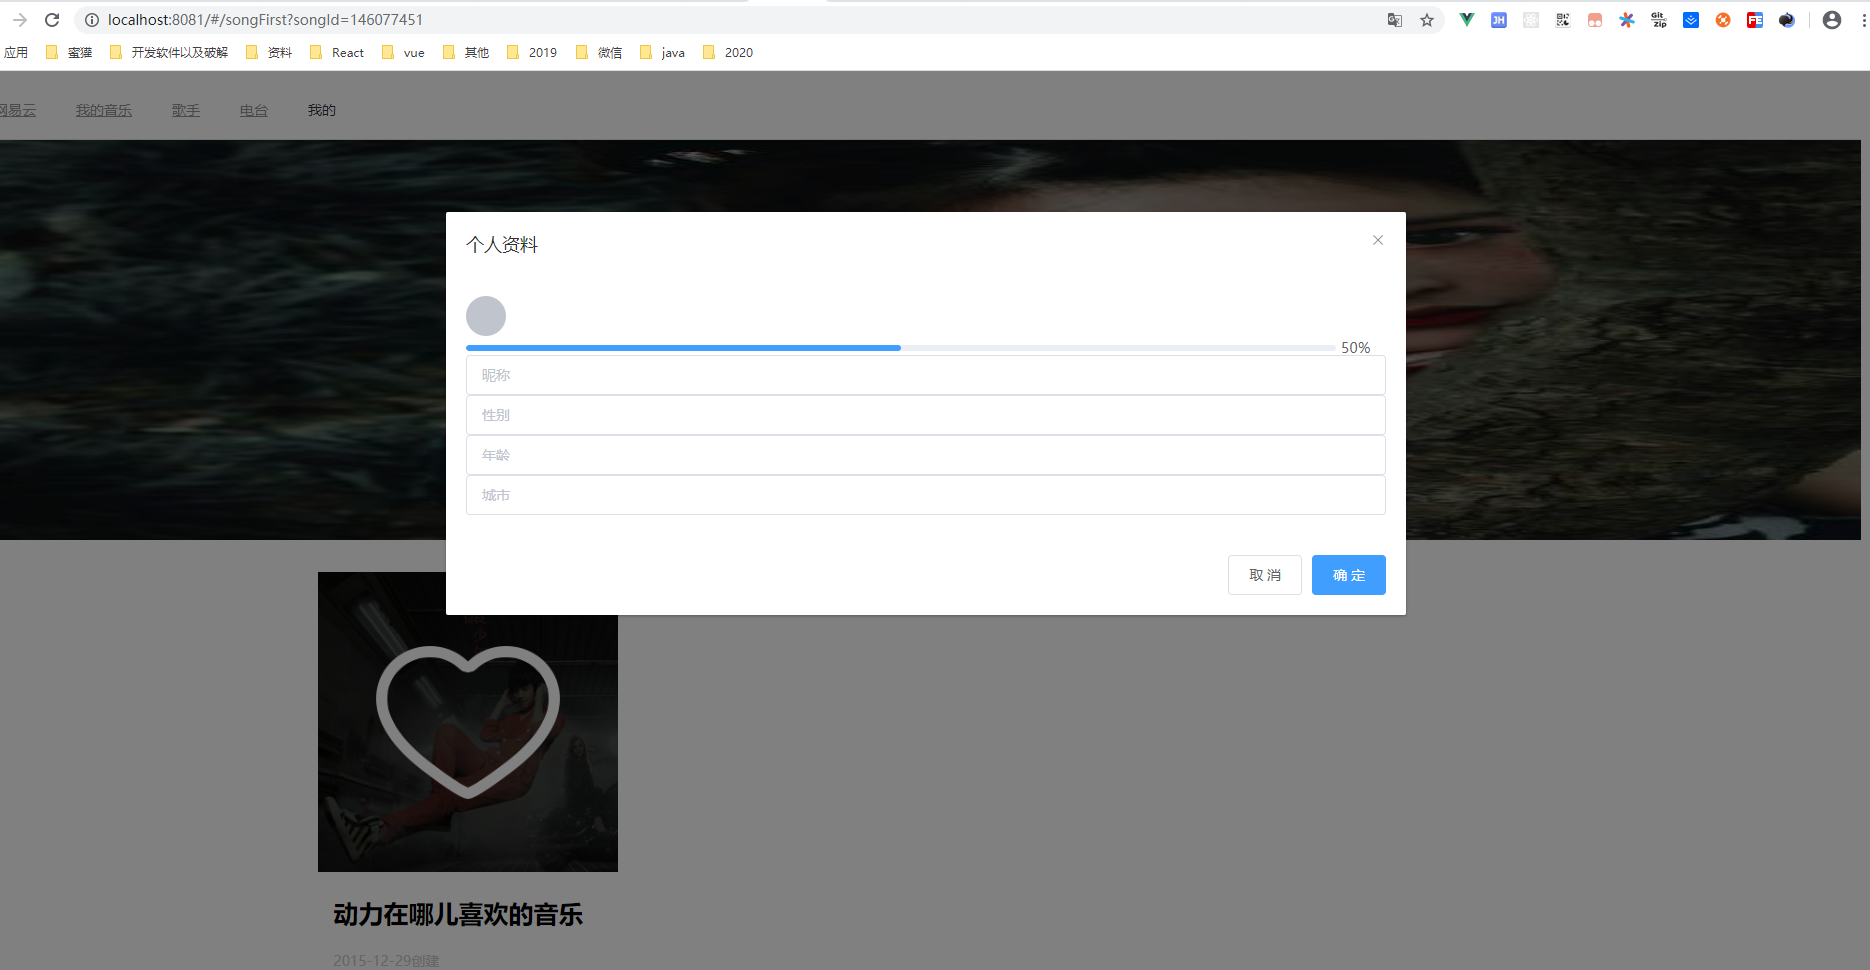
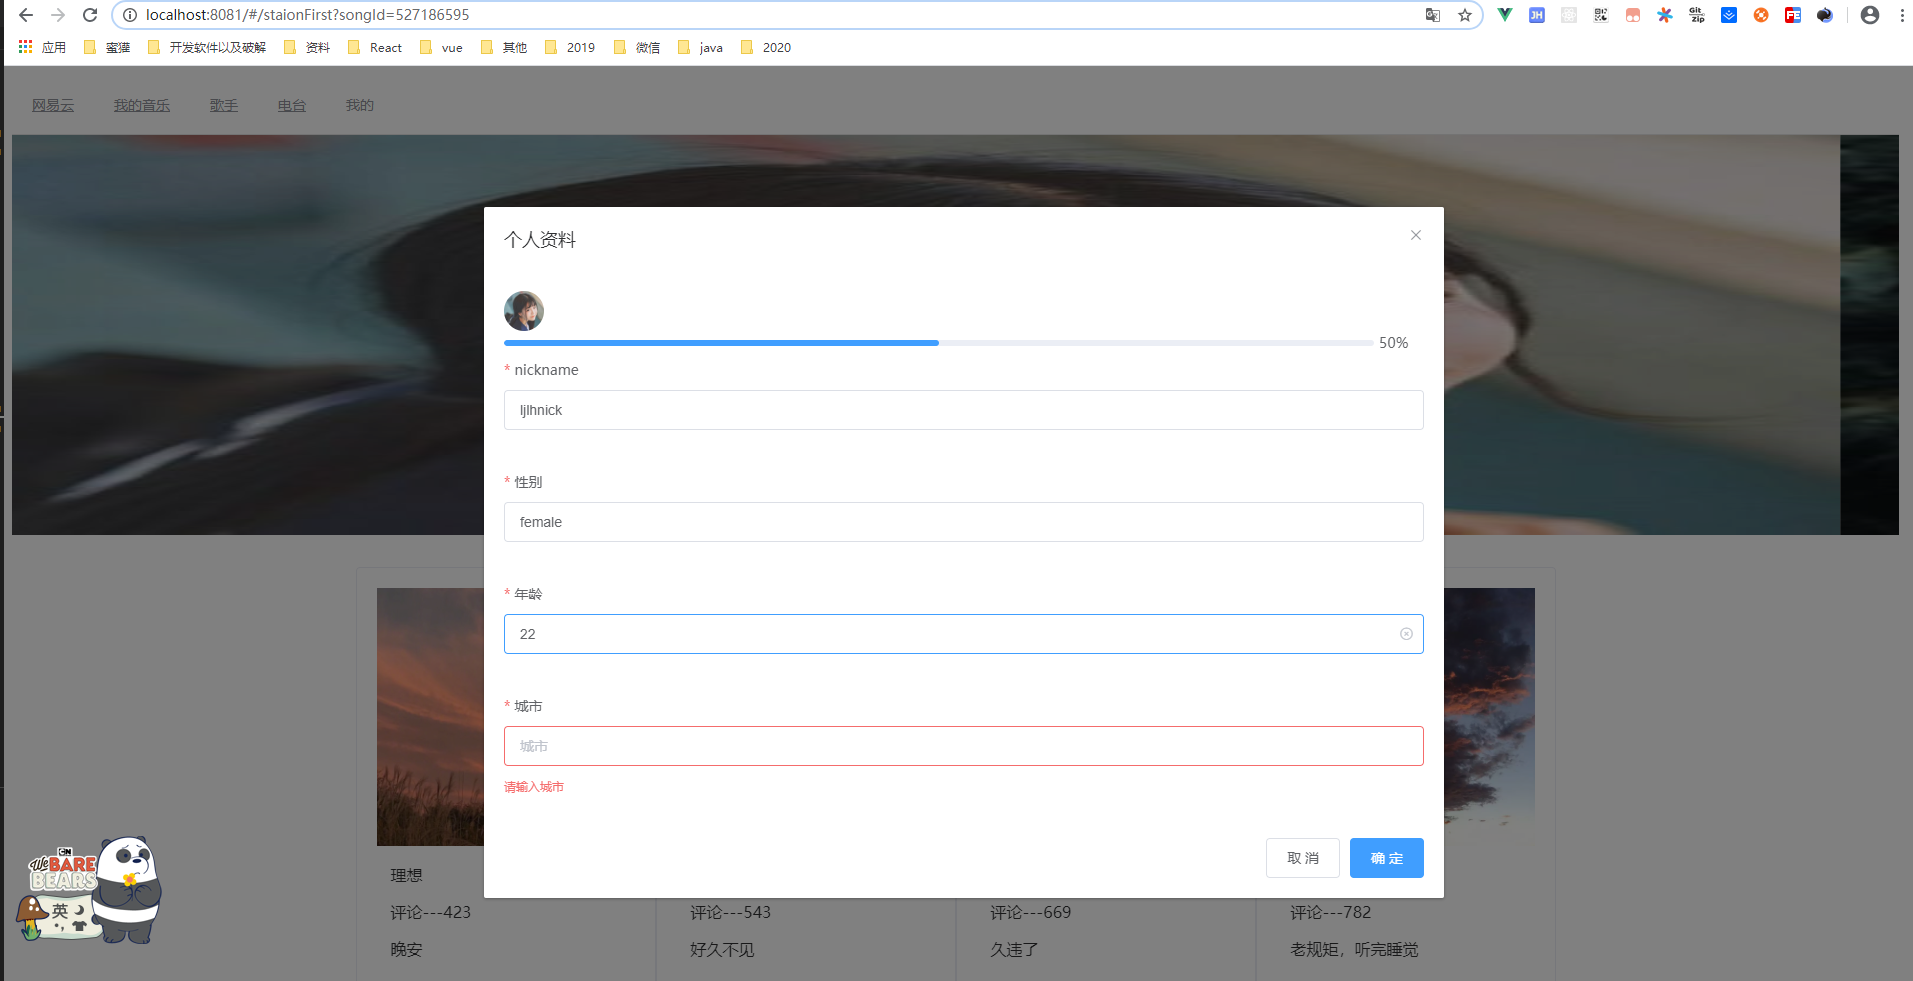
update readme and screenshot

diff --git a/App.vue b/App.vue
@@ -1,0 +1,216 @@
+<template>
+  <div id="app">
+    <div class="">
+      <!-- 搜索接口暂不支持
+      <div class="col-md-3 col-sm-3 col-xs-3">
+        <input type="text" class="form-control" placeholder="搜索" v-model="words" @keyup.enter="search(words)"/>
+        <person-show :is-show="inputShow" @on-close="closeMsg('inputShow')">
+           <ol>
+             <li v-for="(item,index) in searchList" :key="index" class="select-li" @click="closeMsg('inputShow')">
+             <router-link :to="{path:'/playDetail',query:{id:item.id,name:item.name,songer:item.ar[0].name}}">
+             <p>{{item.name}}--{{item.ar[0].name}}--{{item.id}}</p>
+             </router-link>
+             </li>
+          </ol>
+        </person-show>
+      </div> -->
+
+      <el-dialog title="个人资料" :visible.sync="isShow">
+        <el-avatar src="/3.jpg"></el-avatar>
+        <el-progress :percentage="50"></el-progress>
+        <el-form :model="dynamicValidateForm" ref="dynamicValidateForm">
+          <el-form-item
+            label="nickname"
+            prop="nickname"
+            :rules="[{ required: true, message: '请输入昵称' }]"
+          >
+            <el-input
+              placeholder="昵称"
+              v-model="dynamicValidateForm.nickname"
+              clearable
+            ></el-input>
+          </el-form-item>
+          <el-form-item
+            label="性别"
+            prop="sex"
+            :rules="[{ required: true, message: '请输入性别' }]"
+          >
+            <el-input
+              placeholder="性别"
+              v-model="dynamicValidateForm.sex"
+              clearable
+            ></el-input>
+          </el-form-item>
+          <el-form-item
+            label="年龄"
+            prop="age"
+            :rules="[{ required: true, message: '请输入年龄' }]"
+          >
+            <el-input
+              placeholder="年龄"
+              v-model="dynamicValidateForm.age"
+              clearable
+            ></el-input>
+          </el-form-item>
+          <el-form-item
+            label="城市"
+            prop="city"
+            :rules="[{ required: true, message: '请输入城市' }]"
+          >
+            <el-input
+              placeholder="城市"
+              v-model="dynamicValidateForm.city"
+              clearable
+            ></el-input>
+          </el-form-item>
+        </el-form>
+
+        <span slot="footer">
+          <el-button @click="isShow = false">取 消</el-button>
+          <el-button type="primary" @click="submitForm('dynamicValidateForm')"
+            >确 定</el-button
+          >
+        </span>
+      </el-dialog>
+    </div>
+    <el-menu default-active="1" class="el-menu-demo" mode="horizontal">
+      <el-menu-item v-for="(item, index) in menuList" :key="index">
+        <router-link :to="{ path: item.path }">
+          {{ item.name }}
+        </router-link>
+      </el-menu-item>
+      <el-menu-item>
+        <el-link type="primary" @click="showAboutMe">我的</el-link>
+      </el-menu-item>
+    </el-menu>
+    <div class="con">
+      <!-- <slide-show :slides="slides" :inv="inv"></slide-show> -->
+      <el-carousel>
+        <el-carousel-item v-for="(item, index) in slides" :key="index">
+          <img :src="item.src" />
+        </el-carousel-item>
+      </el-carousel>
+      <keep-alive>
+        <router-view></router-view>
+      </keep-alive>
+    </div>
+    <el-backtop></el-backtop>
+  </div>
+</template>
+
+<script>
+// import SlideShow from "./components/slide";
+export default {
+  components: {
+    // SlideShow
+  },
+  data() {
+    return {
+      menuList: [
+        { id: 1, name: "网易云", path: "/" },
+        { id: 2, name: "我的音乐", path: "/mymusic" },
+        { id: 3, name: "歌手", path: "/musicer" },
+        { id: 4, name: "电台", path: "/station" }
+      ],
+      slides: [
+        {
+          src: require("./assets/1.jpg"),
+          title: "xxx1",
+          href: "detail/analysis"
+        },
+        {
+          src: require("./assets/2.jpg"),
+          title: "xxx2",
+          href: "detail/count"
+        },
+        {
+          src: require("./assets/3.jpg"),
+          title: "xxx3",
+          href: "http://xxx.xxx.com"
+        },
+        {
+          src: require("./assets/4.jpg"),
+          title: "xxx4",
+          href: "detail/forecast"
+        }
+      ],
+      inv: 2000,
+      words: "",
+      searchList: [],
+      isShow: false,
+      inputShow: false,
+      dynamicValidateForm: {
+        nickname: "",
+        sex: "",
+        age: "",
+        city: ""
+      }
+    };
+  },
+  methods: {
+    // search(words) {
+    //   this.$http
+    //     .get("https://api.imjad.cn/cloudmusic/?type=search&s=" + this.words)
+    //     .then(res => {
+    //       this.searchList = res.data.result.songs;
+    //       (this.inputShow = true), (this.words = "");
+    //     });
+    // },
+    showAboutMe() {
+      this.isShow = true;
+    },
+    closeMsg(attr) {
+      this[attr] = false;
+    },
+    submitForm(formName) {
+      this.$refs[formName].validate(valid => {
+        if (valid) {
+          this.isShow = false;
+          console.log("success submit", valid);
+        } else {
+          console.log("error");
+          return false;
+        }
+      });
+    }
+  }
+};
+</script>
+<style scoped>
+ul {
+  list-style: none;
+}
+.footer {
+  width: 100%;
+  height: 50px;
+  background: #242424;
+}
+.footer h2 {
+  color: #ccc;
+}
+.select-li {
+  width: 600px;
+  font-size: 16px;
+}
+.person .row {
+  width: 100%;
+  height: 60px;
+}
+.person .from-group span {
+  color: red;
+}
+
+/* elementUI */
+.el-carousel,
+.el-carousel__container,
+.el-carousel__item {
+  height: 400px !important;
+}
+.el-carousel img {
+  width: 100%;
+  height: 100%;
+}
+.el-input {
+  margin-bottom: 10px;
+}
+</style>

diff --git a/README.md b/README.md
@@ -8,7 +8,13 @@ npm install
 npm run build
 npm run test
 npm run lint
+npm run test:e2e
 npm run test:unit
+```
+
+### vue UI
+```
+vue ui
 ```
 
 ### use vue3.0 vue create XXX, here are some change
@@ -16,6 +22,7 @@ npm run test:unit
 1.data.json not need config 
 2.layout.vue mymusic.vue musicer.vue station.vue four components merge to one common copoment, according to the path, get different data but use one template, should watch the route change, once change, make a request.
 3.songFirst.vue myFirst.vue merge to songFirst.vue
+4.app.vue modal add form valid
 ```
 
 ### use ElementUI
@@ -47,10 +54,16 @@ https://blog.csdn.net/weixin_30699463/article/details/95709525
 ### this project showCase
 ![the indexPage](https://github.com/ljlhnick/vue-wangyiyun/blob/master/public/showCase/menuList.png)
 ![playList](https://github.com/ljlhnick/vue-wangyiyun/blob/master/public/showCase/playList.png)
-![station)(https://github.com/ljlhnick/vue-wangyiyun/blob/master/public/showCase/station.png)
+![station](https://github.com/ljlhnick/vue-wangyiyun/blob/master/public/showCase/station.png)
 ![page](https://github.com/ljlhnick/vue-wangyiyun/blob/master/public/showCase/page.png)
 ![playDetail](https://github.com/ljlhnick/vue-wangyiyun/blob/master/public/showCase/playDetail.png)
 ![mine](https://github.com/ljlhnick/vue-wangyiyun/blob/master/public/showCase/mine.png)
+![mine-form-valid](https://github.com/ljlhnick/vue-wangyiyun/blob/master/public/showCase/mine-form-valid)
+
+### API
+```
+the document is here:  https://api.imjad.cn/cloudmusic.md 
+```
 
 ### Customize configuration
 See [Configuration Reference](https://cli.vuejs.org/config/).
